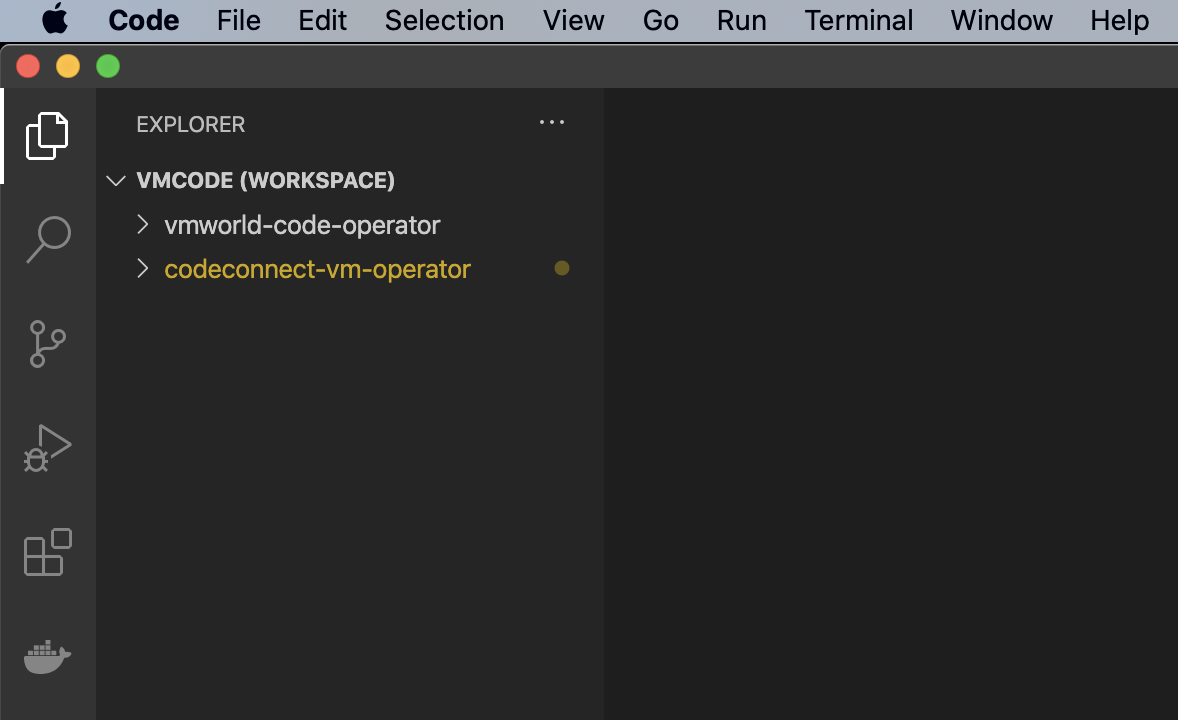
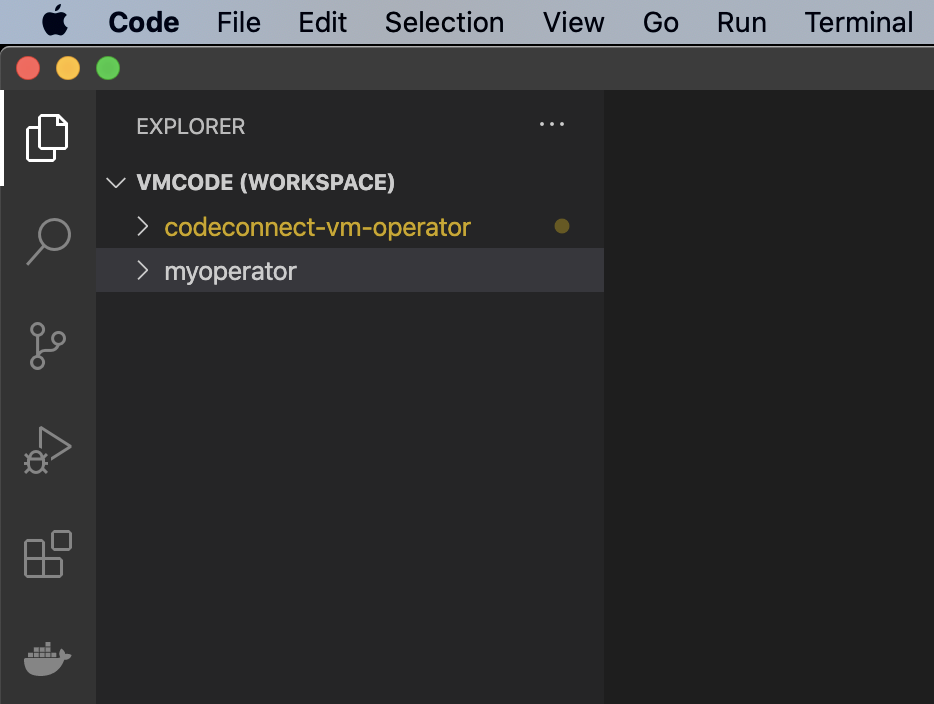
More screenshots and instructions for scaffolding

diff --git a/README.md b/README.md
@@ -33,12 +33,16 @@ kubectl -> operator (lib:govmomi) -> vCenter
 All examples and components used on this demo are on a mac osx.
 
 ## Developer Software
-- git
+
+Install all the following:
+
+- git client
 - Go lang - https://golang.org/dl/
 - Docker Desktop - https://www.docker.com/products/docker-desktop
 - Kubebuild - https://go.kubebuilder.io/quick-start.html
 - Kustomize - https://kubernetes-sigs.github.io/kustomize/installation/
-- [Optional but Recommended] - Code editor such as (VScode)[https://code.visualstudio.com/download] or goland.
+- [Optional but Recommended] - Code editor such as [VScode](https://code.visualstudio.com/download) or goland.
+- [Optional but Recommended] - have access to a public registry such as quay.io or hub.docker.com
 
 ## Kubernetes Cluster
 Any Kubernetes 1.16 and above. For this exercise, we will be using a standalone cluster Kind - https://kind.sigs.k8s.io/docs/user/quick-start/
@@ -48,29 +52,73 @@ A vCenter, a user with privilege of creating and deleting Virtual Machines and V
 Example:
 The mac osx (or the k8s cluster) must have direct access to the vCenter.
 
-# scaffolding
+# Downloading the sample code
 
-The first step is creating the directory with the kubebuilder foundation of the operator module, that is commonly referred as "scaffolding".
-
-Create a brand new directory. Use a meaningful name because the directory name will be used partially as a default name of the k8s namespace where the operator will run.
+To follow these instructions, you will need to git clone this repo. 
 
 ```bash
 cd ~/go/src
-mkdir vmworld-code-operator
-cd vmworld-code-operator
+git clone https://github.com/embano1/codeconnect-vm-operator.git
+```
+
+# Scaffolding
+
+"scaffolding" is the first step of building an operator with kubebuilder starting with a brand-new directory.
+
+## Creating the directory
+
+For academic purposes, we will call the directory as "myoperator" but choose a more meaningful name because this directory name will be used as part of the default name of the k8s namespace and container of your operator (default behavior and it can be changed).
+
+```bash
+cd ~/go/src
+mkdir myoperator
+cd myoperator
 ```
 
 At this time, we recommend you to open the code editor with both directories: the new directory you just created and this source code directory.
-It should like this:
+It should look like this:
 
 ![Image](/images/vscode-empty-directory.png "VScode Screenshot with two directories")
 
+Now, define the go module name of your operator. This module name will be used inside of the go code. Module names are how packages make reference to each other.
+We will call it vmworld/codeconnect.
+
+## Initializing the Directory
 
 ```bash
+cd ~/go/src/myoperator/
 go mod init vmworld/codeconnect
-kubebuilder init --domain codeconnect.vmworld.com
-kubebuilder create api --group vm --version v1alpha1 --kind VmGroup
 ```
+
+Look now the content of myoperator folder: you will have the go.mod for this module.
+
+![Image](/images/vscode-go-module-name.png "VScode Screenshot with operator module name")
+
+## API Group Name, Version, Kind
+
+API Group, its versions and supported kinds are the part of the DNA of k8s. You can read about these concepts [here](https://kubernetes.io/docs/concepts/overview/kubernetes-api/).
+
+For academic purposes, this example creates a kind "VmGroup" that belongs to the API Group "vm.codeconnect.vmworld.com" with the initial version of v1alpha.
+
+These are all parameters for the kubebuilder sccafolding (note the parameters --domain and then --group, --version --kind):
+
+```bash
+cd ~/go/src/myoperator/
+kubebuilder init --domain codeconnect.vmworld.com
+# answer yes for both questions
+kubebuilder create api --group vm --version v1alpha1 --kind VmGroup
+Create Resource [y/n]
+y
+Create Controller [y/n]
+y
+```
+
+Look again the now the content of myoperator folder: you will have a typical directory with go code and other directories.
+The screenshot below shows the default VmGroup type created by scaffolding.
+
+![Image](/images/vscode-kubebuilder-create-api.png "VScode Screenshot with operator module name")
+
+# Custom Resource Definition (CRD)
 
 ```bash
 # show existing API resources before creating our CRD
